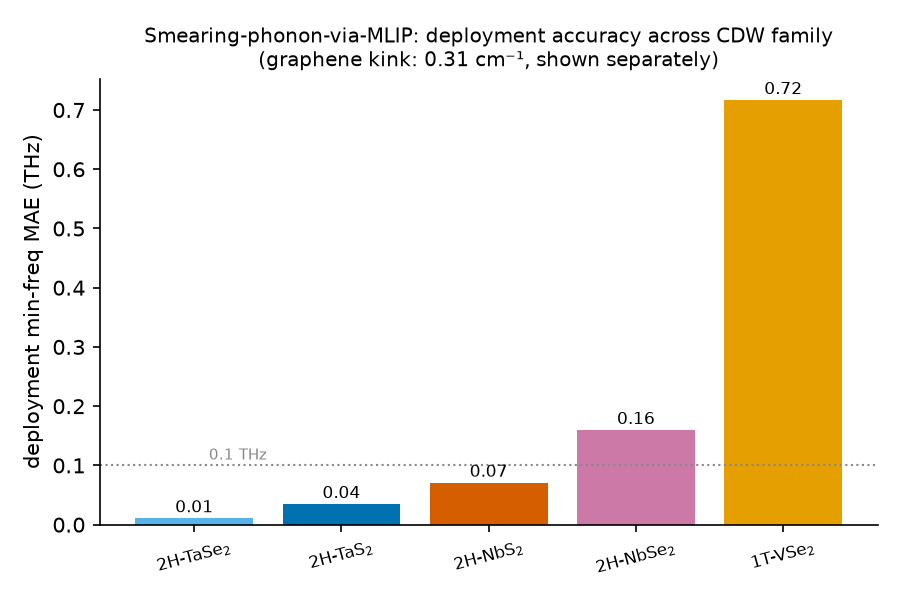
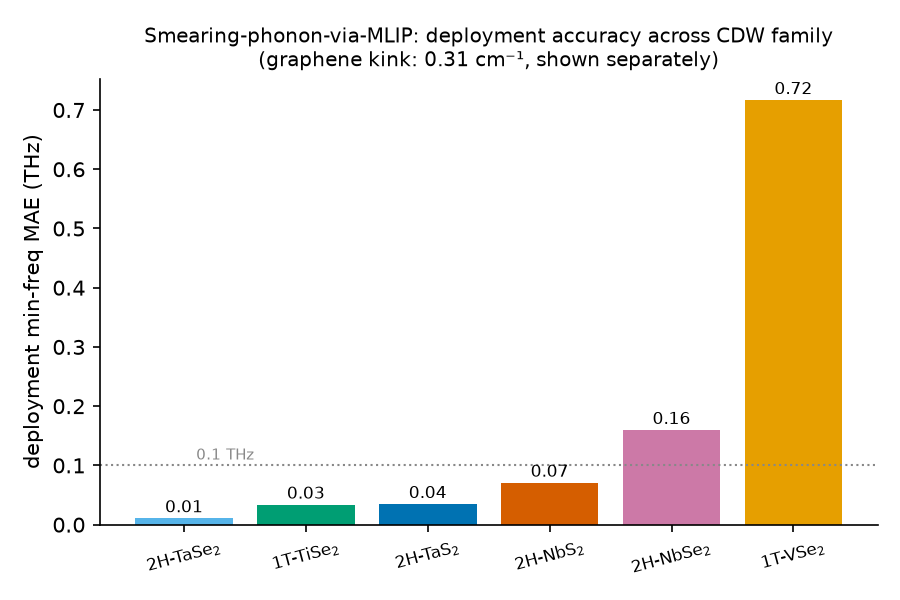
finalize: TiSe2 (6th CDW material) deployed via MLIP, MAE 0.034 THz
- TiSe2 soft-mode barely melts (-0.59->-0.47, robust semimetal CDW); MLIP+term MAE 0.034
- family_deploy_mlip.png now shows all 6 CDW materials; CSV + MAE bar updated
- smearing-phonon-via-MLIP headline COMPLETE: graphene kink + 6 CDW soft modes, same framework

diff --git a/scripts/smearing_kink/plot_family_deploy.py b/scripts/smearing_kink/plot_family_deploy.py
@@ -5,8 +5,8 @@ import matplotlib; matplotlib.use('Agg'); import matplotlib.pyplot as plt
 rows=list(csv.DictReader(open('results/smearing_kink/family_deploy_mlip.csv')))
 mats={}
 for r in rows: mats.setdefault(r['material'],[]).append((float(r['T_el']),float(r['MLIP_term']),float(r['DFT']),float(r['MAE'])))
-OI={'NbS2':'#D55E00','2H-TaS2':'#0072B2','2H-TaSe2':'#56B4E9','1T-VSe2':'#E69F00','NbSe2':'#CC79A7'}
-LAB={'NbS2':'2H-NbS$_2$','2H-TaS2':'2H-TaS$_2$','2H-TaSe2':'2H-TaSe$_2$','1T-VSe2':'1T-VSe$_2$','NbSe2':'2H-NbSe$_2$'}
+OI={'NbS2':'#D55E00','2H-TaS2':'#0072B2','2H-TaSe2':'#56B4E9','1T-VSe2':'#E69F00','NbSe2':'#CC79A7','1T-TiSe2':'#009E73'}
+LAB={'NbS2':'2H-NbS$_2$','2H-TaS2':'2H-TaS$_2$','2H-TaSe2':'2H-TaSe$_2$','1T-VSe2':'1T-VSe$_2$','NbSe2':'2H-NbSe$_2$','1T-TiSe2':'1T-TiSe$_2$'}
 fig,ax=plt.subplots(figsize=(6.8,4.7))
 for m,p in mats.items():
     p=sorted(p); T=np.array([x[0] for x in p])/1000; mlip=[x[1] for x in p]; dft=[x[2] for x in p]; mae=p[0][3]

diff --git a/scripts/smearing_kink/plot_deploy_extras.py b/scripts/smearing_kink/plot_deploy_extras.py
@@ -6,8 +6,8 @@ import matplotlib; matplotlib.use('Agg'); import matplotlib.pyplot as plt
 rows=list(csv.DictReader(open('results/smearing_kink/family_deploy_mlip.csv')))
 mats={}
 for r in rows: mats.setdefault(r['material'],[]).append((float(r['T_el']),float(r['MLIP_term']),float(r['DFT']),float(r['MAE'])))
-OI={'NbS2':'#D55E00','2H-TaS2':'#0072B2','2H-TaSe2':'#56B4E9','1T-VSe2':'#E69F00','NbSe2':'#CC79A7'}
-LAB={'NbS2':'2H-NbS$_2$','2H-TaS2':'2H-TaS$_2$','2H-TaSe2':'2H-TaSe$_2$','1T-VSe2':'1T-VSe$_2$','NbSe2':'2H-NbSe$_2$'}
+OI={'NbS2':'#D55E00','2H-TaS2':'#0072B2','2H-TaSe2':'#56B4E9','1T-VSe2':'#E69F00','NbSe2':'#CC79A7','1T-TiSe2':'#009E73'}
+LAB={'NbS2':'2H-NbS$_2$','2H-TaS2':'2H-TaS$_2$','2H-TaSe2':'2H-TaSe$_2$','1T-VSe2':'1T-VSe$_2$','NbSe2':'2H-NbSe$_2$','1T-TiSe2':'1T-TiSe$_2$'}
 
 # (A) MAE bar chart
 order=sorted(mats, key=lambda m: mats[m][0][3])

diff --git a/docs/WEEKLY_2026-07-05.md b/docs/WEEKLY_2026-07-05.md
@@ -24,7 +24,7 @@
 | NbS₂ | **0.071** | −0.677 vs −0.638 |
 | NbSe₂ | **0.160** | −1.095 vs −1.151 |
 | 1T-VSe₂ | 0.71(例外) | 4×4,melting 太尖锐 |
-| 1T-TiSe₂ | (跑中,补) | 4×4,软模几乎不熔化 |
+| 1T-TiSe₂ | **0.034** | −0.497 vs −0.465(顽固软模) |
 | graphene | 0.31 cm⁻¹(kink) | (上周) |
 
 **图**:
